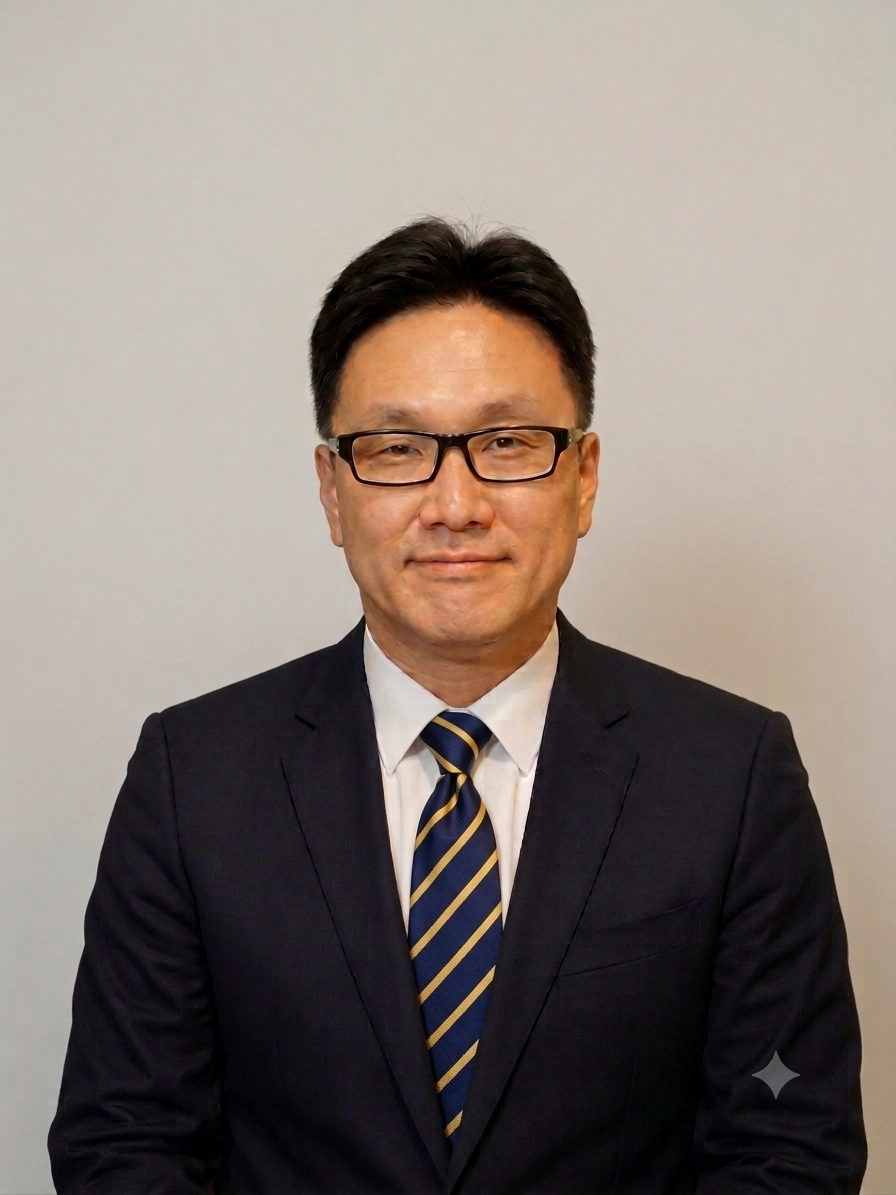
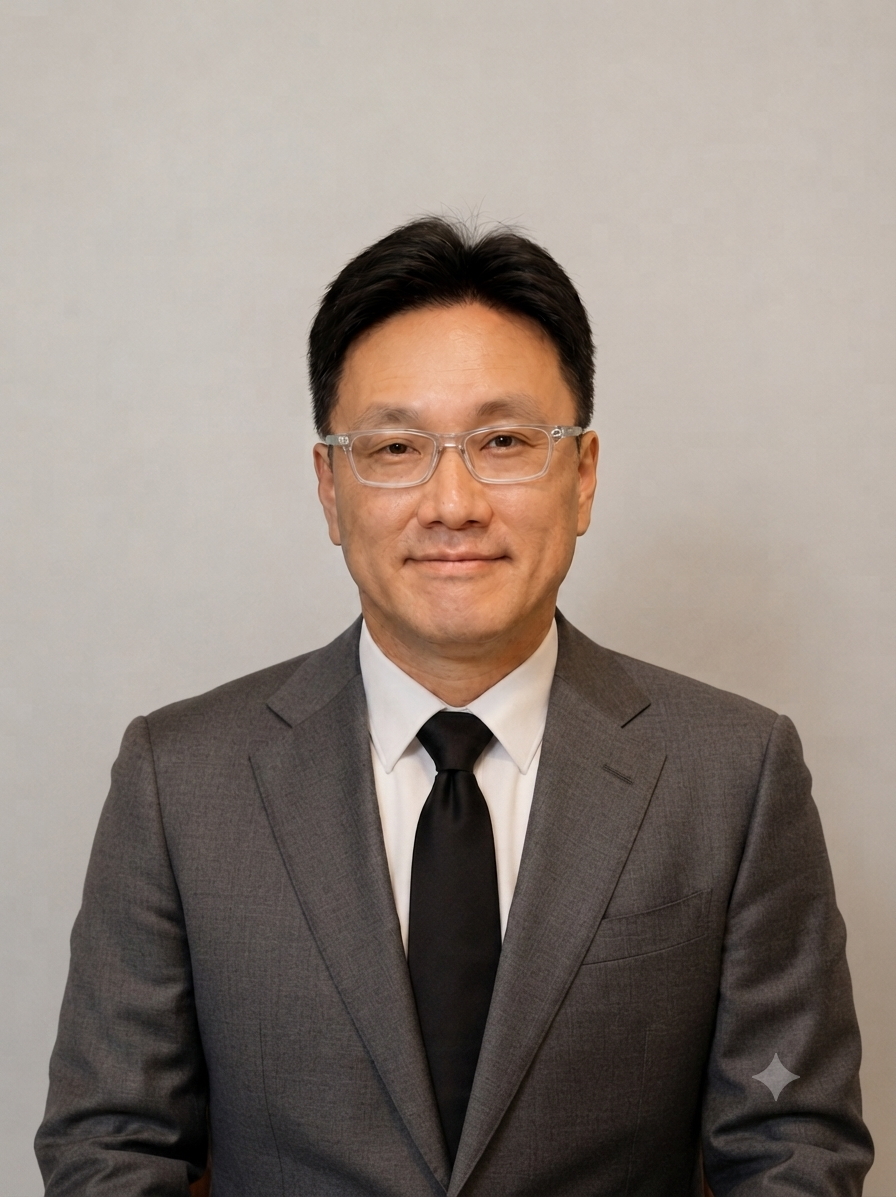
Update practitioner headshot; add Home link to mobile drawer (all pages)

diff --git a/blue-preview/about.html b/blue-preview/about.html
@@ -43,6 +43,7 @@
 <div class="mobile-nav" id="mobile-nav" role="dialog" aria-modal="true" aria-label="Navigation menu">
   <div class="mobile-nav-inner">
     <button class="mobile-nav-close" id="mobile-nav-close" aria-label="Close navigation menu">✕</button>
+    <a href="home.html"><span class="en-only">Home</span><span class="ko-only">홈</span></a>
     <a href="clinic.html"><span class="en-only">Clinic</span><span class="ko-only">의원 소개</span></a>
     <a href="about.html"><span class="en-only">About</span><span class="ko-only">의사 소개</span></a>
     <a href="clinical-cases.html"><span class="en-only">Clinical Case Library</span><span class="ko-only">임상 사례</span></a>

diff --git a/blue-preview/clinic.html b/blue-preview/clinic.html
@@ -47,6 +47,7 @@
 <div class="mobile-nav" id="mobile-nav" role="dialog" aria-modal="true" aria-label="Navigation menu">
   <div class="mobile-nav-inner">
     <button class="mobile-nav-close" id="mobile-nav-close" aria-label="Close navigation menu">✕</button>
+    <a href="home.html"><span class="en-only">Home</span><span class="ko-only">홈</span></a>
     <a href="clinic.html"><span class="en-only">Clinic</span><span class="ko-only">의원 소개</span></a>
     <a href="about.html"><span class="en-only">About</span><span class="ko-only">의사 소개</span></a>
     <a href="clinical-cases.html"><span class="en-only">Clinical Case Library</span><span class="ko-only">임상 사례</span></a>

diff --git a/blue-preview/clinical-cases.html b/blue-preview/clinical-cases.html
@@ -73,6 +73,7 @@
 <div class="mobile-nav" id="mobile-nav" role="dialog" aria-label="Navigation menu" aria-modal="true">
   <div class="mobile-nav-inner">
     <button class="mobile-nav-close" id="mobile-nav-close" aria-label="Close navigation menu">✕</button>
+    <a href="home.html"><span class="en-only">Home</span><span class="ko-only">홈</span></a>
     <a href="clinic.html"><span class="en-only">Clinic</span><span class="ko-only">의원 소개</span></a>
     <a href="about.html"><span class="en-only">About</span><span class="ko-only">의사 소개</span></a>
     <a href="clinical-cases.html"><span class="en-only">Clinical Case Library</span><span class="ko-only">임상 사례</span></a>

diff --git a/blue-preview/contact.html b/blue-preview/contact.html
@@ -43,6 +43,7 @@
 <div class="mobile-nav" id="mobile-nav" role="dialog" aria-modal="true" aria-label="Navigation menu">
   <div class="mobile-nav-inner">
     <button class="mobile-nav-close" id="mobile-nav-close" aria-label="Close navigation menu">✕</button>
+    <a href="home.html"><span class="en-only">Home</span><span class="ko-only">홈</span></a>
     <a href="clinic.html"><span class="en-only">Clinic</span><span class="ko-only">의원 소개</span></a>
     <a href="about.html"><span class="en-only">About</span><span class="ko-only">의사 소개</span></a>
     <a href="clinical-cases.html"><span class="en-only">Clinical Case Library</span><span class="ko-only">임상 사례</span></a>

diff --git a/blue-preview/home.html b/blue-preview/home.html
@@ -51,6 +51,7 @@
 <div class="mobile-nav" id="mobile-nav" role="dialog" aria-label="Navigation menu" aria-modal="true">
   <div class="mobile-nav-inner">
     <button class="mobile-nav-close" id="mobile-nav-close" aria-label="Close navigation menu">✕</button>
+    <a href="home.html"><span class="en-only">Home</span><span class="ko-only">홈</span></a>
     <a href="clinic.html"><span class="en-only">Clinic</span><span class="ko-only">의원 소개</span></a>
     <a href="about.html"><span class="en-only">About</span><span class="ko-only">의사 소개</span></a>
     <a href="clinical-cases.html"><span class="en-only">Clinical Case Library</span><span class="ko-only">임상 사례</span></a>

diff --git a/blue-preview/index.html b/blue-preview/index.html
@@ -51,6 +51,7 @@
 <div class="mobile-nav" id="mobile-nav" role="dialog" aria-label="Navigation menu" aria-modal="true">
   <div class="mobile-nav-inner">
     <button class="mobile-nav-close" id="mobile-nav-close" aria-label="Close navigation menu">✕</button>
+    <a href="home.html"><span class="en-only">Home</span><span class="ko-only">홈</span></a>
     <a href="clinic.html"><span class="en-only">Clinic</span><span class="ko-only">의원 소개</span></a>
     <a href="about.html"><span class="en-only">About</span><span class="ko-only">의사 소개</span></a>
     <a href="clinical-cases.html"><span class="en-only">Clinical Case Library</span><span class="ko-only">임상 사례</span></a>

diff --git a/blue-preview/journal.html b/blue-preview/journal.html
@@ -51,6 +51,7 @@
 <div class="mobile-nav" id="mobile-nav" role="dialog" aria-label="Navigation menu" aria-modal="true">
   <div class="mobile-nav-inner">
     <button class="mobile-nav-close" id="mobile-nav-close" aria-label="Close navigation menu">✕</button>
+    <a href="home.html"><span class="en-only">Home</span><span class="ko-only">홈</span></a>
     <a href="clinic.html"><span class="en-only">Clinic</span><span class="ko-only">의원 소개</span></a>
     <a href="about.html"><span class="en-only">About</span><span class="ko-only">의사 소개</span></a>
     <a href="clinical-cases.html"><span class="en-only">Clinical Case Library</span><span class="ko-only">임상 사례</span></a>
